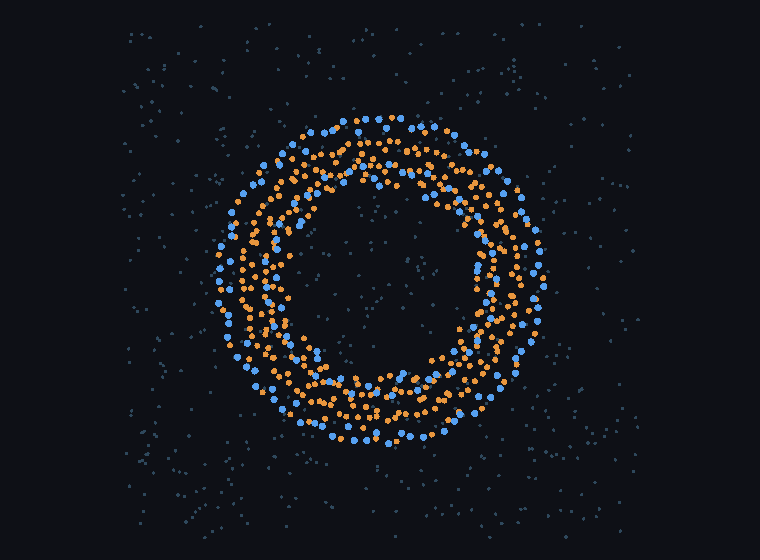
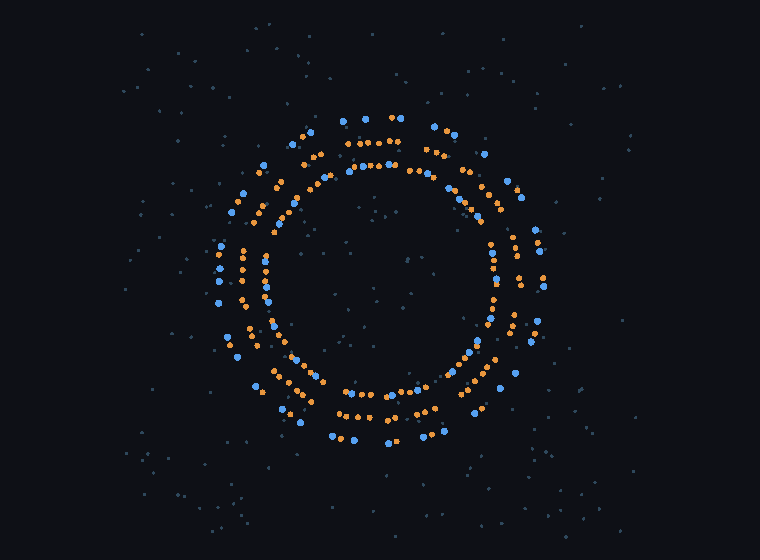
vivarium: 3-D vesicle holds its lumen with 2-tail lipids; thin the render slab
Planted 3-D vesicle, 300 one-head/two-tail lipids, explicit solvent, 30000 steps so far:

    step     E/lip   largest   R_mid   shellCV   lumen/bulk   lumen water
       0     20.70   300/300    5.98     0.136         1.12            60
    7500    -35.77   300/300    4.75     0.180         4.88            86
   15000    -41.71   300/300    4.45     0.198         7.02            87
   22500    -44.60   300/300    4.38     0.202         7.03            80
   30000    -46.52   300/300    4.35     0.207         6.55            72

The shell stays whole, the radius settles near 4.35 after relaxing off the planted 5.98, and the lumen
GAINS water rather than draining. Contrast the 4-tail attempt, which shrank to 3 waters: a 4-tail
bilayer is ~8 thick, so a 300-lipid vesicle at R ~ 6 has essentially no lumen. Two tails is why
Cooke-Deserno uses that chain length in 3-D.

RENDER SLAB THINNED 3.0 -> 1.2. The first 3-D render showed a filled ball and the structure was read as
collapsed; the numbers said otherwise. The cause was the artifact this module's own docstring warns
about: at slab = 3.0 through a vesicle of R = 4.35 the cut contains most of the sphere, so the front
and back caps project into the middle. At 1.2, thinner than the bilayer itself, the cross-section is a
genuine ring with heads on both surfaces and water inside.

Claude-Session: https://claude.ai/code/session_017Ld9DgPtjwxx7hhxTDgxgL

diff --git a/projects/vivarium/_mixture.py b/projects/vivarium/_mixture.py
@@ -42,13 +42,16 @@ from field import Field, HEAD, TAIL, WATER
 W, H = 760, 560
 
 
-def shot(X, species, L, tag, slab=3.0):
+def shot(X, species, L, tag, slab=1.2):
     """A structural claim in this project is not allowed without looking at the picture.
 
     A 3-D box drawn as a flat projection is a solid wall of beads that hides everything inside it, so
     3-D states are cut to a slab through the centre thick enough to show one membrane cross-section.
-    The thickness is stamped in the filename: a slab too thick manufactures apparent density, one too
-    thin manufactures apparent holes.
+    A slab too thick manufactures apparent density and one too thin manufactures apparent holes, and
+    the first attempt here demonstrated the former: at slab = 3.0 through a vesicle of R = 4.35 the cut
+    contained most of the sphere, so the front and back caps projected into the middle and a hollow
+    shell rendered as a filled ball. 1.2 is thinner than the bilayer itself, so the cross-section of a
+    vesicle is a genuine ring.
     """
     img = np.zeros((H, W, 3), dtype=np.uint8)
     img[:, :] = (14, 16, 22)
